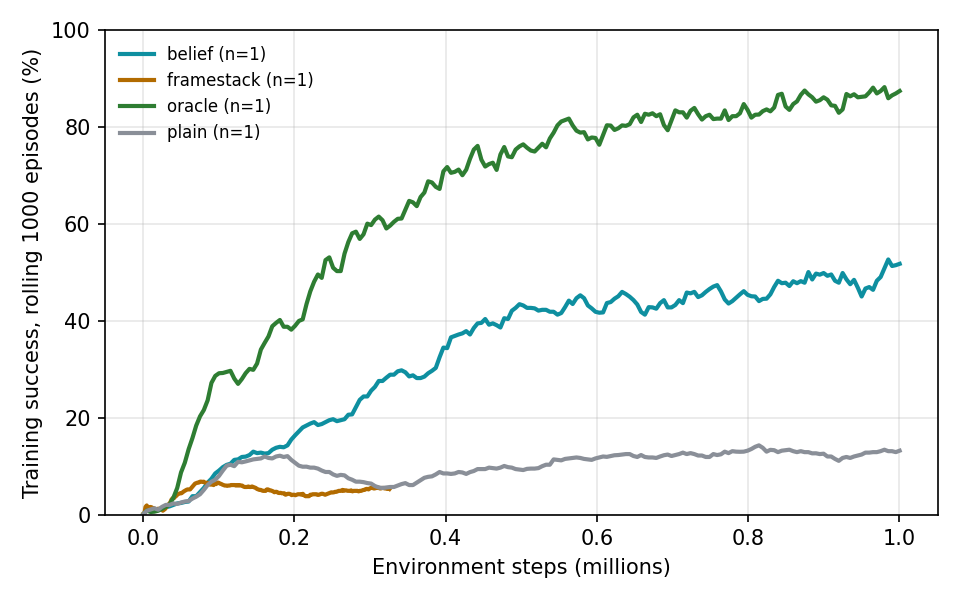
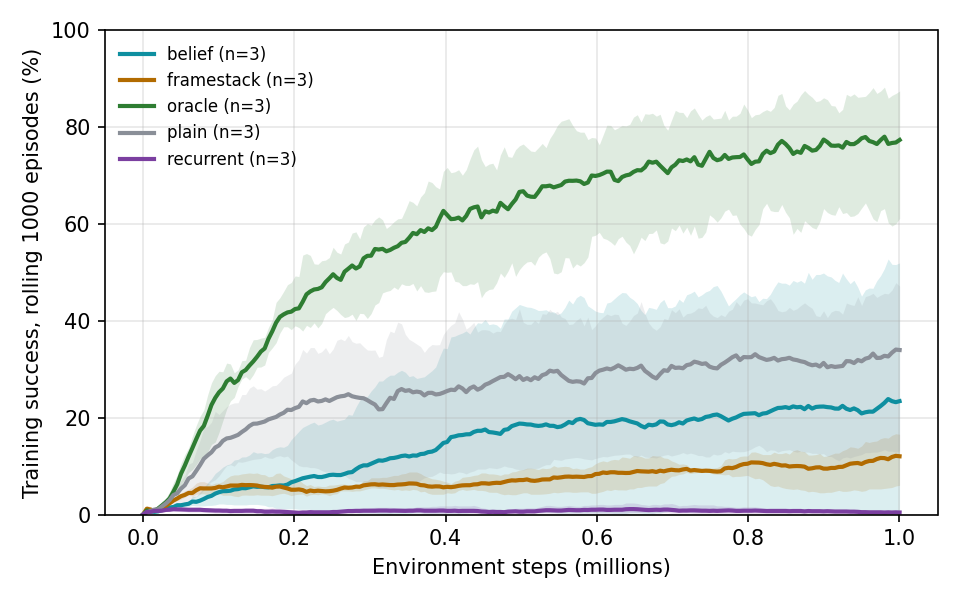
results: seeds 0-2 eval — belief localizes better, but collapses on 2/3 seeds; plain wins aggregate

diff --git a/docs/training-log.md b/docs/training-log.md
@@ -1824,3 +1824,45 @@ framestack_s2: last1000 succ 0.060 att 0.77 len 161.3 wall_h 1.26
 recurrent_s2: last1000 succ 0.007 att 0.26 len 188.5 wall_h 3.58
 
 Phase-2 training is done. eval_all_n200 is starting.
+
+## v2 — 200-episode eval, seeds 0–2 (2026-10-09 02:48)
+
+All 15 runs: 200 episodes × 6 σ, shared seeds. Tables are in `docs/results.md` (`tools/make_results.py`).
+
+**Aggregate IQM** over seeds × σ, with 95% CI:
+
+| method | IQM | 95% CI |
+|---|---|---|
+| oracle | 0.85 | 0.75–0.91 |
+| plain | 0.27 | 0.19–0.34 |
+| belief | 0.10 | 0.02–0.25 |
+| framestack | 0.08 | 0.05–0.11 |
+| recurrent | 0.00 | — |
+
+P(belief > plain) = 0.31 [0.11–0.52].
+
+**Success per seed:**
+
+| run | σ=2 | 5 | 10 | 15 | 20 | 30 | attempts/ep |
+|---|---|---|---|---|---|---|---|
+| belief s0 | .61 | .64 | .51 | .44 | .36 | .20 | 1.57 |
+| belief s1 | .12 | .12 | .12 | .05 | .01 | .00 | 0.26 |
+| belief s2 | .00 | .00 | .00 | .00 | .00 | .00 | 0.00 |
+| plain s0 | .21 | .16 | .16 | .11 | .07 | .02 | 1.19 |
+| plain s1 | .46 | .48 | .35 | .28 | .25 | .12 | 1.76 |
+| plain s2 | .64 | .46 | .44 | .36 | .25 | .20 | 1.57 |
+
+**Mean commit error (mm)**, which reflects localization quality when a method does commit:
+
+| method | σ=2 | 5 | 10 | 15 | 20 | 30 |
+|---|---|---|---|---|---|---|
+| belief | 6.9 | 7.4 | 10.0 | 12.1 | 14.7 | 19.1 |
+| plain | 10.7 | 12.1 | 14.6 | 18.1 | 20.7 | 26.6 |
+| oracle | 6.9 | 6.9 | 6.9 | 6.9 | 6.9 | 6.9 |
+
+**Reading:**
+1. **Localization:** belief localizes clearly better than plain at every σ (its commit error at 2 mm matches the oracle's). Its best seed beats plain's best seed at σ ≥ 10 mm. The belief representation does what it should.
+2. **Training reliability:** belief collapsed into never committing on 2 of 3 seeds, and recurrent on 3 of 3. Plain collapsed on 0 of 3, with one weak seed. The aggregate ranks methods by how often PPO escapes the commit-avoidance trap in 1M steps, not by the information each observation carries.
+3. **Honest headline under the base protocol:** "belief state gives better localization (lower commit error); success is dominated by training collapse."
+
+The scientifically clean next step is a v2.1 protocol with one identical training-reliability fix for every method, e.g. a commit curriculum (the grasp gate starts generous and tightens) or a fixed early exploration bonus on commits. It needs a full retrain (about 35 h), so it is flagged to the user rather than started unilaterally. Seeds 3–4 of the base protocol continue meanwhile and add power to these estimates.

diff --git a/docs/results.md b/docs/results.md
@@ -6,7 +6,46 @@
 
 | method     |   n_seeds |   final |
 |:-----------|----------:|--------:|
-| belief     |         1 |   0.518 |
-| framestack |         1 |   0.053 |
-| oracle     |         1 |   0.875 |
-| plain      |         1 |   0.132 |
+| belief     |         3 |   0.234 |
+| framestack |         3 |   0.121 |
+| oracle     |         3 |   0.774 |
+| plain      |         3 |   0.340 |
+| recurrent  |         3 |   0.004 |
+
+## Success vs camera noise (200 episodes per σ per seed, shared seeds)
+
+![success vs sigma](figs/v2/success_vs_sigma.png)
+
+| method | seeds | σ=2 mm | σ=5 mm | σ=10 mm | σ=15 mm | σ=20 mm | σ=30 mm |
+|---|---|---|---|---|---|---|---|
+| oracle | 3 | 0.82 [0.79–0.85] | 0.82 [0.79–0.85] | 0.82 [0.79–0.85] | 0.82 [0.79–0.85] | 0.82 [0.79–0.85] | 0.82 [0.79–0.85] |
+| belief | 3 | 0.24 [0.21–0.28] | 0.25 [0.22–0.29] | 0.21 [0.18–0.24] | 0.16 [0.13–0.19] | 0.12 [0.10–0.15] | 0.07 [0.05–0.09] |
+| recurrent | 3 | 0.00 [0.00–0.01] | 0.00 [0.00–0.01] | 0.00 [0.00–0.01] | 0.00 [0.00–0.01] | 0.00 [0.00–0.01] | 0.00 [0.00–0.01] |
+| framestack | 3 | 0.07 [0.06–0.10] | 0.10 [0.08–0.13] | 0.10 [0.08–0.12] | 0.07 [0.06–0.10] | 0.07 [0.06–0.10] | 0.05 [0.03–0.07] |
+| plain | 3 | 0.43 [0.39–0.47] | 0.36 [0.33–0.40] | 0.32 [0.28–0.35] | 0.25 [0.22–0.29] | 0.19 [0.16–0.22] | 0.11 [0.09–0.14] |
+
+| method | IQM success (seeds × σ) | 95% CI |
+|---|---|---|
+| oracle | 0.847 | 0.754–0.907 |
+| belief | 0.096 | 0.023–0.249 |
+| recurrent | 0.000 | 0.000–0.000 |
+| framestack | 0.080 | 0.046–0.106 |
+| plain | 0.266 | 0.192–0.338 |
+
+| comparison | P(improvement) | 95% CI |
+|---|---|---|
+| P(belief > oracle) | 0.000 | 0.000–0.000 |
+| P(belief > recurrent) | 0.806 | 0.694–0.917 |
+| P(belief > framestack) | 0.426 | 0.222–0.648 |
+| P(belief > plain) | 0.306 | 0.111–0.519 |
+
+
+### Mean commit error (mm)
+
+| method     |    2 |    5 |   10 |   15 |   20 |   30 |
+|:-----------|-----:|-----:|-----:|-----:|-----:|-----:|
+| belief     |  6.9 |  7.4 | 10   | 12.1 | 14.7 | 19.1 |
+| framestack | 24.5 | 24.1 | 24.4 | 27.3 | 29.5 | 34.2 |
+| oracle     |  6.9 |  6.9 |  6.9 |  6.9 |  6.9 |  6.9 |
+| plain      | 10.7 | 12.1 | 14.6 | 18.1 | 20.7 | 26.6 |
+| recurrent  | 16.9 | 26.4 | 35.7 | 40.9 | 40.4 | 45.8 |
